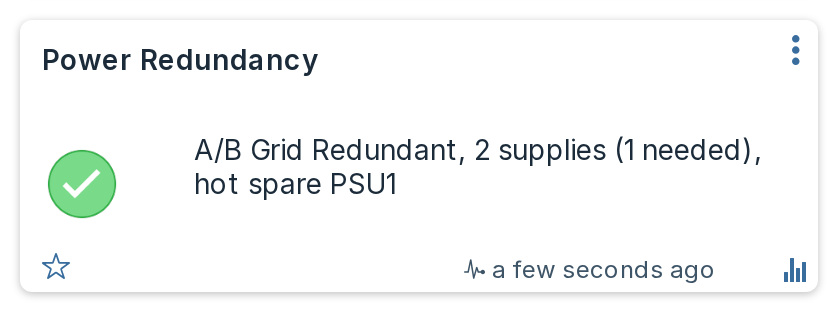
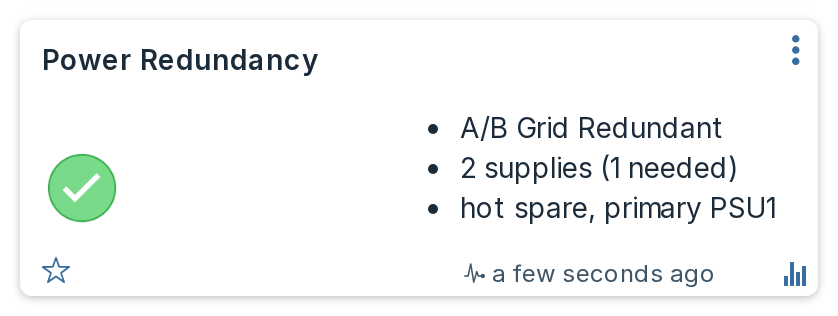
docs: document the Formatted card text setting
Covers the new RichCardText setting (Devices group, on by default): what it
changes on System Health and Power Redundancy, the sValue/dzVents/
notification compatibility warning, the Domoticz 2026.1 requirement, and the
independent fault-list truncation fix. Updates the two screenshots that were
replaced with the new bulleted rendering and adds the new Open iDRAC link
screenshot.

diff --git a/docs/devices.md b/docs/devices.md
@@ -86,7 +86,7 @@ Colour comes from the Domoticz alert level, so a problem is visible on the dashb
 
 Four of those, as they actually appear:
 
-![System Health showing a raised fault, red](assets/cards/system-health-critical.png)
+![System Health showing two faults listed as bullets, red](assets/cards/system-health-critical.png)
 
 ![A failed power supply reading 0 Watt](assets/cards/psu-failed.png)
 
@@ -250,6 +250,13 @@ Its level is the worst of the standard Redfish health rollup and Dell's own OEM 
 !!! info "Why the fault text matters so much"
     Dell's health rollups track **raised faults**, not instantaneous component state, so the tile can stay red for hours while every single component, both power supplies included, reports `Status.Health: OK`. Without the fault sentence you would be looking at a red square with nothing behind it that you could act on.
 
+With [Formatted card text](settings.md#formatted-card-text) on, a fault list of more than one message is shown as bullets rather than joined into one paragraph, and the card gains a link reading **Open iDRAC** that opens the server's own web interface in a new tab, on every state including `OK`:
+
+![System Health reading OK, with the Open iDRAC link underneath](assets/cards/system-health-link.png)
+
+!!! note "More faults than fit end in a count, not a cut-off sentence"
+    The card has a readability budget for fault text. Faults that fit are shown in full, and when there are more than that, the card drops whole faults rather than cutting one in half, ending with a count such as `+2 more`. That replaces an earlier version that joined every fault into one string and cut the result mid-sentence, which could leave half a fault on screen looking like a complete one. This applies whether **Formatted card text** is on or off.
+
 ## Power redundancy
 
 Reports the health of the redundancy **group**, which is a different question from whether each PSU is healthy. It can read Critical while both power supplies individually read OK, which is exactly the condition a per-component view cannot show you.
@@ -258,10 +265,15 @@ It reads in plain English rather than in Redfish terms, and it leads with **the 
 
 A server that reports no policy at all, which is any non-Dell Redfish endpoint, falls back to the generic Redfish mode and reads `Redundant, 2 supplies (1 needed)`.
 
+With [Formatted card text](settings.md#formatted-card-text) on, these facts are shown as bullets rather than run together on one line, and the card gains a link reading **Open iDRAC** that opens the server's own web interface in a new tab.
+
+!!! note "The Open iDRAC link can sit below the fold"
+    The card's text area is a fixed height and scrolls. On Power Redundancy with three facts, the **Open iDRAC** link lands just below the visible area, so reaching it needs a scroll; most browsers draw a scrollbar on the card to show there is more. The link also takes the card's own text colour and is underlined, rather than being drawn in a colour of its own, because a fixed colour cannot read well on a white card, a dark-theme card and a red alert card alike.
+
 !!! note "Hot Spare appears on the end"
     With **Hot Spare** switched on, the iDRAC parks some supplies on standby and lets the ones you nominate as **Primary** carry the whole load. The device names the primaries, which is what explains a healthy set where one supply reads a few watts and another reads everything:
 
-    ![Power Redundancy reading A/B Grid Redundant with a hot spare](assets/cards/power-redundancy-hot-spare.png)
+    ![Power Redundancy showing the policy, supply count and hot spare primary as three bullets](assets/cards/power-redundancy-hot-spare.png)
 
     The pair it describes, on the same server at the same moment. Neither supply is faulty:
 

diff --git a/docs/settings.md b/docs/settings.md
@@ -43,6 +43,7 @@ These control which optional device families are created. Turning one off stops 
 | **Network interfaces** | on | One alert device per NIC port. |
 | **Drive life warning (%)** | 10 | Warn when a drive reports less predicted media life remaining than this. Only applies to drives that report the figure at all, which in practice means SSDs. |
 | **Drive life % devices** | off | A second device per drive reporting predicted media life as a graphable percentage. See below. |
+| **Formatted card text** | on | Renders System Health and Power Redundancy as a bullet list with a link to the iDRAC, instead of a single line of text. See below. |
 | **Fan bar maximum (RPM)** | 6000 | Top of the scale on fan bar graphs. `0` switches fan bars off. See below. |
 
 Turning off a family also skips the requests that fetch it, so on a server with many drives, switching **Physical drives** off measurably shortens the slow tier.
@@ -57,6 +58,21 @@ Every physical drive already reports its predicted media life on its own tile, a
 Switching this on adds a **second** device per drive, a Percentage carrying the same figure, which Domoticz does graph and which gets a [bar](devices.md#bar-graphs) coloured from your **Drive life warning (%)** setting. It is off by default because for most people the number on the drive's own tile is enough, and one extra device per drive adds up on a full chassis.
 
 Only drives that actually report a life figure get one, which in practice means SSDs. The setting has no effect while **Physical drives** is off, since the life device hangs off the drive device.
+
+### Formatted card text
+
+Two devices, [System Health](devices.md#system-health) and [Power Redundancy](devices.md#power-redundancy), can show their facts as a formatted bullet list with a link to the iDRAC, instead of a single line of plain text. Nothing else is affected.
+
+With it on, System Health lists its faults as bullets instead of joining them with semicolons, and Power Redundancy lists its facts (the configured policy, the supply counts, and the hot spare line when there is one) the same way. Both cards also gain a link reading **Open iDRAC** at the end, which opens the server's own web interface in a new tab. The link appears on every state, including a fault and an unknown reading.
+
+![System Health reading OK, with the Open iDRAC link underneath](assets/cards/system-health-link.png)
+
+With it off, both cards produce exactly the plain text the plugin has always produced, character for character.
+
+!!! warning "This text is what dzVents and notifications see"
+    The card text is the device's `sValue`, which is what a dzVents script compares against and what Domoticz notifications send. If you have a script or notification matching text such as `Redundancy lost`, either leave this setting off or update it to match the new wording; turning the setting on changes that text on the next poll.
+
+**Requires Domoticz 2026.1 or newer**, the version from which Domoticz renders Text and Alert device data as HTML rather than as plain text. On an older build the markup may show as literal tags on the card instead of a bullet list, so turn this setting off there.
 
 ### Why the fan bar maximum is a setting
 

diff --git a/CHANGELOG.md b/CHANGELOG.md
@@ -4,6 +4,12 @@ All notable changes to this project are documented here. The format is based on 
 
 ## [Unreleased]
 
+### Added
+
+- **A Formatted card text setting**, on by default, that renders System Health and Power Redundancy as a bullet list with a link to the iDRAC instead of a single line of text. System Health lists its faults as bullets instead of joining them with semicolons, and Power Redundancy lists its policy, supply counts and hot spare line the same way. Both cards gain a link reading `Open iDRAC` at the end, on every state, that opens the server's own web interface in a new tab. Turned off, both cards produce exactly the plain text the plugin has always produced, character for character, because that text is the device's `sValue`, which is what a dzVents script compares against and what Domoticz notifications send: anyone with a script matching text such as `Redundancy lost` should either leave the setting off or update the script. Requires Domoticz 2026.1 or newer, the version from which Domoticz renders Text and Alert device data as HTML; on an older build the markup may show as literal tags, so leave the setting off there. See [Formatted card text](https://rouzax.github.io/dell-idrac-domoticz-plugin/settings/#formatted-card-text).
+
+  Independently of this setting, System Health now handles more faults than fit on the card differently: it used to join every fault into one string and cut the result mid-sentence at 200 characters, which could leave half a fault on screen looking like a complete one. It now drops whole faults instead and ends with a count such as `+2 more`.
+
 ### Changed
 
 - **Power Redundancy now states the configured policy, and names a hot spare.** The device read `Redundant, 2 supplies (1 needed)` and was built entirely from the generic Redfish redundancy group. Measured across eight Dell servers, that group reports `Mode: N+m` on every single one whatever the policy is set to, so the device rendered the identical sentence for `A/B Grid Redundant` and `PSU Redundant` and changing the setting on the iDRAC could never change the card. It now leads with Dell's own policy, for example `A/B Grid Redundant, 2 supplies (1 needed)`, and appends `, hot spare, primary PSU1` when **Hot Spare** is switched on, naming the supplies Dell nominates to carry the load. A server that reports no policy, which is any non-Dell Redfish endpoint, still falls back to the Redfish mode. A fault still reads `Redundancy lost` or `Redundancy degraded` on its own. Fixes [#7](https://github.com/Rouzax/dell-idrac-domoticz-plugin/issues/7).
